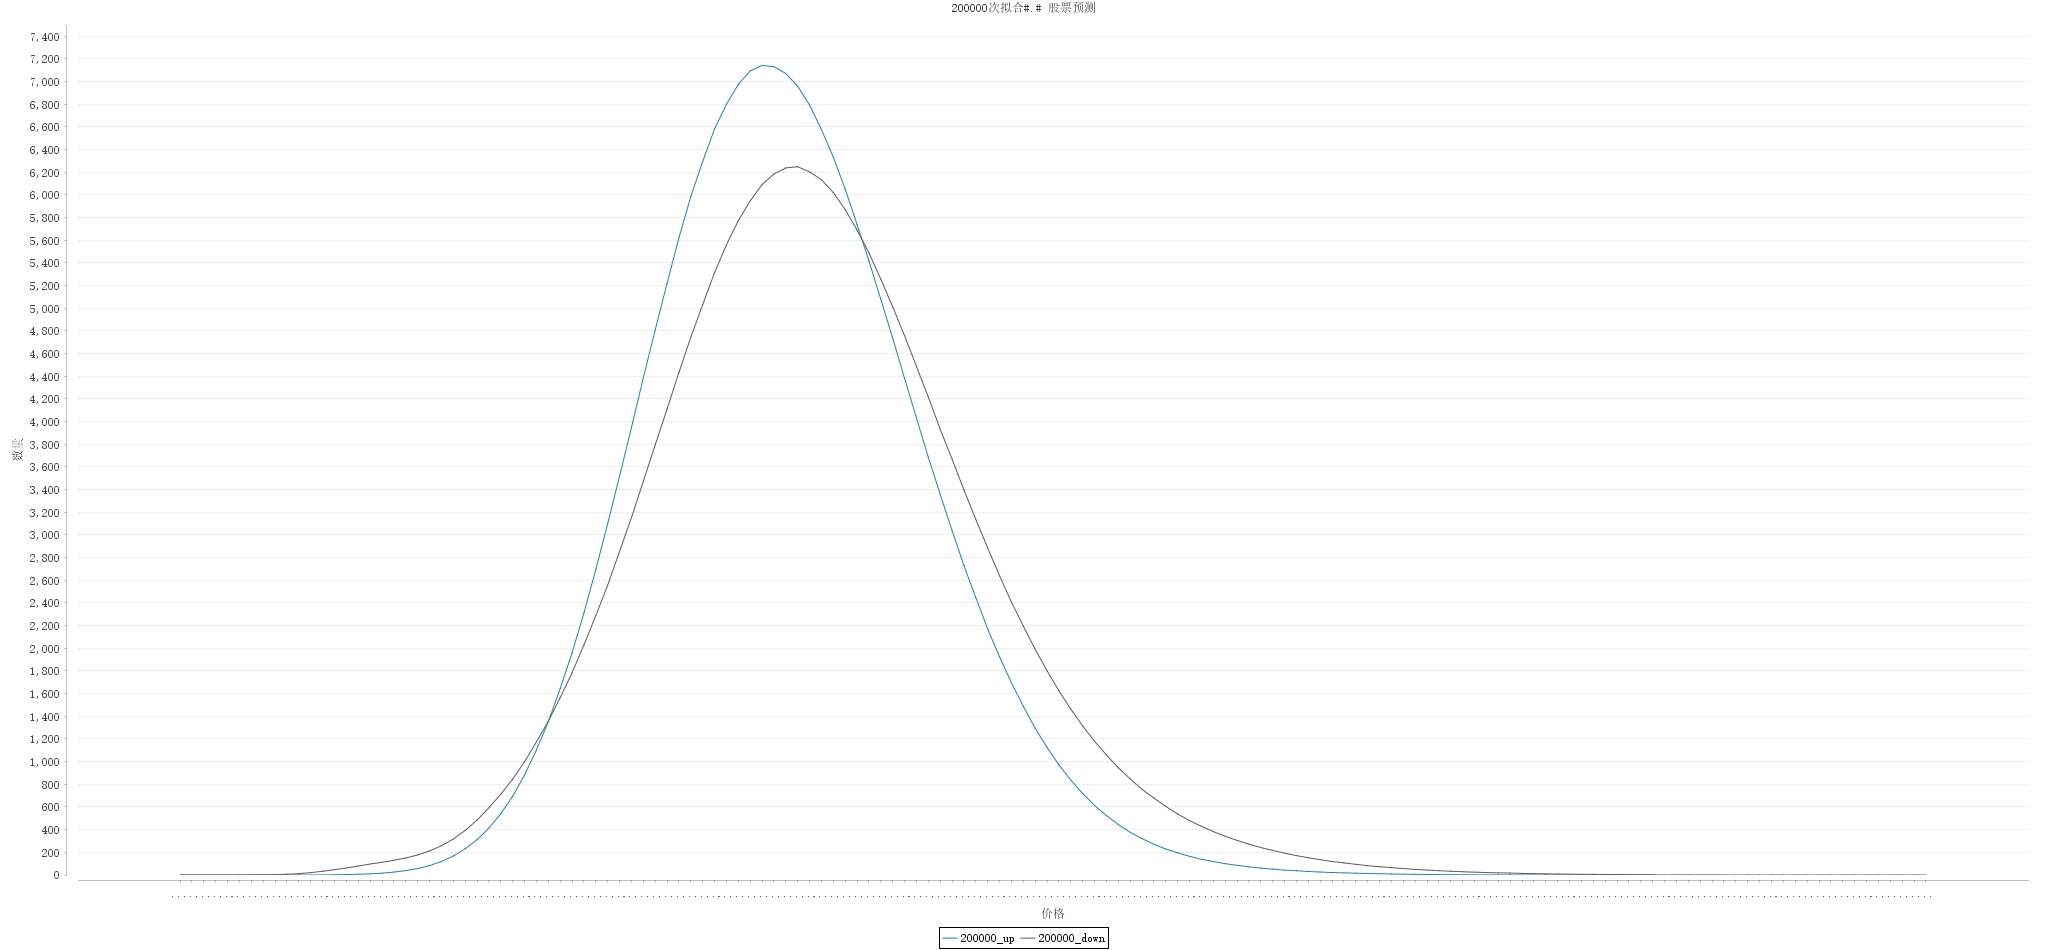
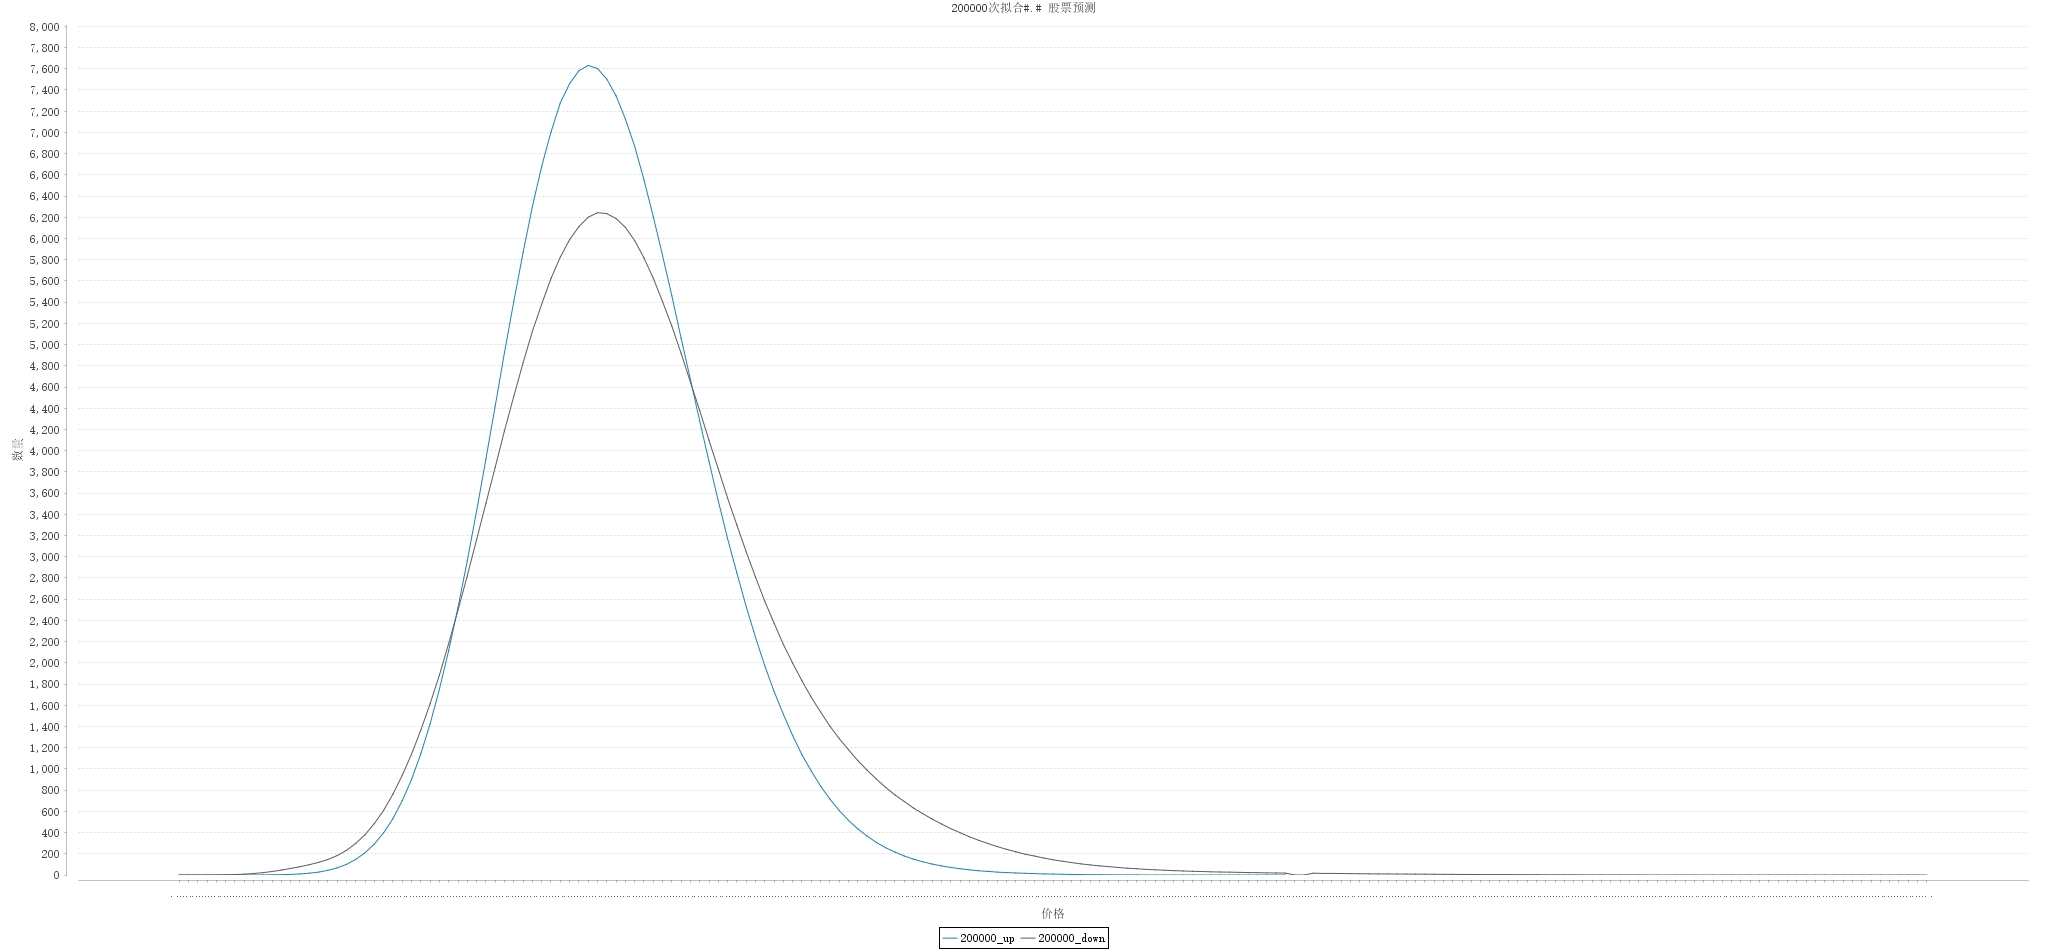
添加   修改公式计算的图标方式

diff --git a/src/main/java/personal/xuzj157/stocksyn/pojo/bo/RandomUnitS.java b/src/main/java/personal/xuzj157/stocksyn/pojo/bo/RandomUnitS.java
@@ -1,0 +1,115 @@
+package personal.xuzj157.stocksyn.pojo.bo;
+
+import lombok.Data;
+import personal.xuzj157.stocksyn.utils.MathUtils;
+
+import javax.persistence.Entity;
+import javax.persistence.Id;
+import java.util.UUID;
+
+@Entity
+@Data
+public class RandomUnitS {
+
+    @Id
+    String id = UUID.randomUUID().toString().replaceAll("-", "");
+
+    private double netincGrowRate = MathUtils.random(15);
+    /**
+     * 主营业务收入
+     * 1 / ( 1 + e^( -主营业务收入 / 历史主营业务收入平均值))
+     */
+    private double mainbusiincome = MathUtils.random(15);
+    /**
+     * 净利润
+     * 1 / ( 1 + e^( -净利润 / 历史净利润平均值))
+     */
+    private double netprofit = MathUtils.random(15);
+    /**
+     * 1 / ( 1 + e^( -资产总额 / 历史资产总额平均值))
+     */
+    private double totalassets = MathUtils.random(15);
+    /**
+     * 1 / ( 1 + e^( -市盈率 / 市盈率平均值))
+     */
+    private double peratio = MathUtils.random(15);
+    /**
+     * 1 / ( 1 + e^( -市净率 / 市净率平均值))
+     */
+    private double bvRatio = MathUtils.random(15);
+    /**
+     * 15日均价 / 时价
+     */
+    private double fifteenPrice = MathUtils.random(15);
+    /**
+     * 15日最低价 / 时价
+     */
+    private double lowFifteenPrice = MathUtils.random(15);
+    /**
+     * 30日均价 / 时价
+     */
+    private double thirtyPrice = MathUtils.random(15);
+    /**
+     * 30日最低价 / 时价
+     */
+    private double lowThirtyPrice = MathUtils.random(15);
+    /**
+     * 60日均价 / 时价
+     */
+    private double sixtyPrice = MathUtils.random(15);
+    /**
+     * 60日最低价 / 时价
+     */
+    private double lowSixtyPrice = MathUtils.random(15);
+    /**
+     * 180天均价 / 时价
+     */
+    private double oneEightyPrice = MathUtils.random(15);
+    /**
+     * 180天最低价 / 时价
+     */
+    private double lowOneEightyPrice = MathUtils.random(15);
+    /**
+     * 400天均价 / 时价
+     */
+    private double fourHundredPrice = MathUtils.random(15);
+    /**
+     * 400天最低价 / 时价
+     */
+    private double lowFourHundredPrice = MathUtils.random(15);
+    /**
+     * 历史均价 / 时价
+     */
+    private double historyPrice = MathUtils.random(15);
+    /**
+     * 历史最低价 / 时价
+     */
+    private double lowHistoryPrice = MathUtils.random(15);
+
+    @Override
+    public boolean equals(Object o) {
+        if (this == o) return true;
+        if (o == null || getClass() != o.getClass()) return false;
+        if (!super.equals(o)) return false;
+        RandomUnitS that = (RandomUnitS) o;
+        return Double.compare(that.netincGrowRate, netincGrowRate) == 0 &&
+                Double.compare(that.mainbusiincome, mainbusiincome) == 0 &&
+                Double.compare(that.netprofit, netprofit) == 0 &&
+                Double.compare(that.totalassets, totalassets) == 0 &&
+                Double.compare(that.peratio, peratio) == 0 &&
+                Double.compare(that.bvRatio, bvRatio) == 0 &&
+                Double.compare(that.fifteenPrice, fifteenPrice) == 0 &&
+                Double.compare(that.lowFifteenPrice, lowFifteenPrice) == 0 &&
+                Double.compare(that.thirtyPrice, thirtyPrice) == 0 &&
+                Double.compare(that.lowThirtyPrice, lowThirtyPrice) == 0 &&
+                Double.compare(that.sixtyPrice, sixtyPrice) == 0 &&
+                Double.compare(that.lowSixtyPrice, lowSixtyPrice) == 0 &&
+                Double.compare(that.oneEightyPrice, oneEightyPrice) == 0 &&
+                Double.compare(that.lowOneEightyPrice, lowOneEightyPrice) == 0 &&
+                Double.compare(that.fourHundredPrice, fourHundredPrice) == 0 &&
+                Double.compare(that.lowFourHundredPrice, lowFourHundredPrice) == 0 &&
+                Double.compare(that.historyPrice, historyPrice) == 0 &&
+                Double.compare(that.lowHistoryPrice, lowHistoryPrice) == 0;
+    }
+
+}

diff --git a/src/main/java/personal/xuzj157/stocksyn/utils/CalculationUtils.java b/src/main/java/personal/xuzj157/stocksyn/utils/CalculationUtils.java
@@ -5,6 +5,7 @@ import com.alibaba.fastjson.JSONObject;
 import com.mongodb.BasicDBObject;
 import lombok.extern.slf4j.Slf4j;
 import personal.xuzj157.stocksyn.pojo.bo.RandomUnit;
+import personal.xuzj157.stocksyn.pojo.bo.RandomUnitS;
 import personal.xuzj157.stocksyn.pojo.bo.SecondCalculationUnit;
 import personal.xuzj157.stocksyn.pojo.bo.SumUnit;
 
@@ -14,6 +15,29 @@ import java.util.*;
 public class CalculationUtils {
 
     public static double getSum(RandomUnit randomUnit, SecondCalculationUnit second) {
+        double sum = 0;
+        sum = sum + randomUnit.getNetincGrowRate() * second.getNetincGrowRate();
+        sum = sum + randomUnit.getMainbusiincome() * second.getMainbusiincome();
+        sum = sum + randomUnit.getNetprofit() * second.getNetprofit();
+        sum = sum + randomUnit.getTotalassets() * second.getTotalassets();
+        sum = sum + randomUnit.getPeratio() * second.getPeratio();
+        sum = sum + randomUnit.getBvRatio() * second.getBvRatio();
+        sum = sum + randomUnit.getFifteenPrice() * second.getFifteenPrice();
+        sum = sum + randomUnit.getLowFifteenPrice() * second.getLowFifteenPrice();
+        sum = sum + randomUnit.getThirtyPrice() * second.getThirtyPrice();
+        sum = sum + randomUnit.getLowThirtyPrice() * second.getLowThirtyPrice();
+        sum = sum + randomUnit.getSixtyPrice() * second.getSixtyPrice();
+        sum = sum + randomUnit.getLowSixtyPrice() * second.getLowSixtyPrice();
+        sum = sum + randomUnit.getOneEightyPrice() * second.getOneEightyPrice();
+        sum = sum + randomUnit.getLowOneEightyPrice() * second.getLowOneEightyPrice();
+        sum = sum + randomUnit.getFourHundredPrice() * second.getFourHundredPrice();
+        sum = sum + randomUnit.getLowFourHundredPrice() * second.getLowFourHundredPrice();
+        sum = sum + randomUnit.getHistoryPrice() * second.getLowHistoryPrice();
+        sum = sum + randomUnit.getLowHistoryPrice() * second.getLowHistoryPrice();
+        return sum;
+    }
+
+    public static double getSum(RandomUnitS randomUnit, SecondCalculationUnit second) {
         double sum = 0;
         sum = sum + randomUnit.getNetincGrowRate() * second.getNetincGrowRate();
         sum = sum + randomUnit.getMainbusiincome() * second.getMainbusiincome();
@@ -122,6 +146,15 @@ public class CalculationUtils {
         List<RandomUnit> randomUnitList = new LinkedList<>();
         for (int i = 0; i < times; i++) {
             randomUnitList.add(new RandomUnit());
+        }
+        log.info("getRandom finish");
+        return randomUnitList;
+    }
+
+    public static List<RandomUnitS> getRandomS(Integer times) {
+        List<RandomUnitS> randomUnitList = new LinkedList<>();
+        for (int i = 0; i < times; i++) {
+            randomUnitList.add(new RandomUnitS());
         }
         log.info("getRandom finish");
         return randomUnitList;

diff --git a/src/main/java/personal/xuzj157/stocksyn/service/impl/CalculatorServiceImpl.java b/src/main/java/personal/xuzj157/stocksyn/service/impl/CalculatorServiceImpl.java
@@ -2,10 +2,7 @@ package personal.xuzj157.stocksyn.service.impl;
 
 import lombok.extern.slf4j.Slf4j;
 import org.springframework.stereotype.Service;
-import personal.xuzj157.stocksyn.pojo.bo.CalculationResUnit;
-import personal.xuzj157.stocksyn.pojo.bo.RandomUnit;
-import personal.xuzj157.stocksyn.pojo.bo.SecondCalculationUnit;
-import personal.xuzj157.stocksyn.pojo.bo.SumUnit;
+import personal.xuzj157.stocksyn.pojo.bo.*;
 import personal.xuzj157.stocksyn.repository.calculationUnit.RandomUnitRepository;
 import personal.xuzj157.stocksyn.repository.calculationUnit.SecondCalculationUnitRepository;
 import personal.xuzj157.stocksyn.service.CalculatorService;
@@ -105,8 +102,8 @@ public class CalculatorServiceImpl implements CalculatorService {
         int t = 0, t2 = 0;
 
         for (int j = 0; j < 10000; j++) {
-            List<RandomUnit> randomUnitList = CalculationUtils.getRandom(timesOri);
-            for (RandomUnit random : randomUnitList) {
+            List<RandomUnitS> randomUnitList = CalculationUtils.getRandomS(timesOri);
+            for (RandomUnitS random : randomUnitList) {
                 List<SumUnit> sumUnitSet = CalculationUtils.getLimitList();
                 for (SecondCalculationUnit second : secondList) {
                     Double sum = CalculationUtils.getSum(random, second);

diff --git a/src/main/java/personal/xuzj157/stocksyn/utils/MathUtils.java b/src/main/java/personal/xuzj157/stocksyn/utils/MathUtils.java
@@ -1,5 +1,7 @@
 package personal.xuzj157.stocksyn.utils;
 
+import java.util.Random;
+
 public class MathUtils {
 
     /**
@@ -34,5 +36,16 @@ public class MathUtils {
      */
     public static Double linearFunction(Double y, Double x) {
         return y / x;
+    }
+
+    /**
+     * 获取随机数
+     *
+     * @param end
+     * @return
+     */
+    public static int random(Integer end) {
+        Random random = new Random();
+        return random.nextInt(end);
     }
 }

diff --git a/src/main/java/personal/xuzj157/stocksyn/pojo/bo/CalculationResUnit.java b/src/main/java/personal/xuzj157/stocksyn/pojo/bo/CalculationResUnit.java
@@ -6,10 +6,10 @@ import java.util.List;
 
 @Data
 public class CalculationResUnit {
-    RandomUnit randomUnit;
+    RandomUnitS randomUnit;
     List<SumUnit> sumUnitList;
 
-    public CalculationResUnit(RandomUnit randomUnit, List<SumUnit> sumUnitList) {
+    public CalculationResUnit(RandomUnitS randomUnit, List<SumUnit> sumUnitList) {
         this.randomUnit = randomUnit;
         this.sumUnitList = sumUnitList;
     }
